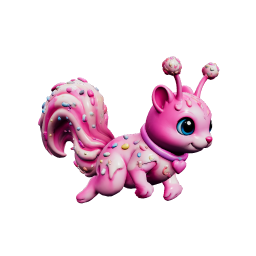
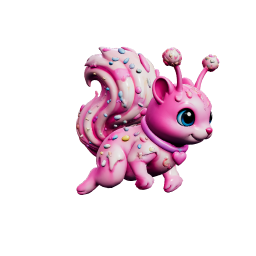
beta Pinky: a tap tail that reads - Robo's rhythm, a bigger swing
Owner: "the tail movement on tap is NOT playing enough". Measured at the
52 px game size the old tap changed the silhouette by at most 50%, against
Robo 80%, Volt 77%, Cat 86%: two small symmetric sweeps of a compact plume.

The tap is now keyed to Robo's bank: down past straight out and held, up
past rest so it leans over the back, down again, home (TAP_KEYS in
moves.js). Peak silhouette change 61%; the plume keeps its sculpted shape
and the root holds at both extremes.

Claude-Session: https://claude.ai/code/session_01AxarYXSPHDGFV5QY8gYCSr

Changed region(s): [[0.125, 0.1562, 0.875, 0.8125]]

diff --git a/tools/rig3d/moves.js b/tools/rig3d/moves.js
@@ -18,18 +18,28 @@ const TAU = Math.PI * 2;
 
 // the level pose every bank starts from
 export const LEVEL = { pitch: 0, spine: 0, head: 0, ears: 0, front: 6, paw: 0, hind: -6, hindLow: 0, tailOut: 0.25 };
-// how far the tap's sweep carries the tail (1 = straight out behind a level body), and how
-// far the dive does: past 1, so the plume lines up with the body as it tips nose down
-const TAP_OUT = 0.9, DIVE_OUT = 1.25;
+// how far the dive carries the tail (1 = straight out behind a level body): past 1, so the
+// plume lines up with the body as it tips nose down
+const DIVE_OUT = 1.25;
+// THE TAP'S TAIL, keyed to Robo's painted bank (owner, 26 Oct 2026: "the tail movement on
+// tap is NOT playing enough"): sweep down to straight out and HOLD there, swing back up past
+// rest so it leans forward over the back, sweep down again, settle. [u, tailOut] pairs,
+// eased between, so the same keys read the same at 12 frames or 16.
+const TAP_KEYS = [[0, LEVEL.tailOut], [0.12, 0.85], [0.22, 1.3], [0.42, 1.3], [0.52, 0.5],
+  [0.62, -0.35], [0.68, -0.35], [0.76, 0.9], [0.83, 1.15], [0.92, 0.6], [1, LEVEL.tailOut]];
+const keyed = (keys, u) => {
+  let i = 1; while (i < keys.length - 1 && u > keys[i][0]) i++;
+  const [u0, a] = keys[i - 1], [u1, b] = keys[i], x = Math.min(1, Math.max(0, (u - u0) / (u1 - u0)));
+  return a + (b - a) * x * x * (3 - 2 * x);
+};
 
 export const MOVES = {
-  // Robo's tail: from the upright plume it sweeps down to straight out behind, back up,
-  // and again - twice per loop - with a light whip running down it, while the body bobs
-  // once and the legs paddle with the bob.
+  // Robo's tail (TAP_KEYS): down to straight out and held, up past rest, down again, home,
+  // with a light whip running down it, while the body bobs once and the legs paddle.
   tap: {
     frames: 16, loop: true,
     pose(u) {
-      const c = TAU * u, s2 = (1 - Math.cos(2 * c)) / 2; // 0 -> 1 -> 0 -> 1 -> 0
+      const c = TAU * u;
       // each wave is measured from its own value at u = 0, so frame 1 is exactly LEVEL
       const w = (amp, ph, mul = 1) => amp * (Math.sin(mul * c + ph) - Math.sin(ph));
       return {
@@ -42,7 +52,7 @@ export const MOVES = {
         paw: w(-12, 1.0),
         hind: LEVEL.hind + w(-22, 0),
         hindLow: w(14, 0.8),
-        tailOut: LEVEL.tailOut + (TAP_OUT - LEVEL.tailOut) * s2,
+        tailOut: keyed(TAP_KEYS, u),
         tail: (f, k) => 2 * f * (Math.sin(2 * c - 0.6 - k * 0.42) - Math.sin(-0.6 - k * 0.42)),
       };
     },

diff --git a/docs/js/catalog.js b/docs/js/catalog.js
@@ -62,7 +62,7 @@ export const HYPER_RUN_ENABLED = true;
 // Stamped by export-sandbox.mjs at build time, so two approvals of the
 // same day are still tellable apart on the Profile footer. Unbuilt source
 // (labs, tests) shows no stamp rather than a stale one.
-export const BUILD_TIME = "2026-10-25 23:49 UTC";
+export const BUILD_TIME = "2026-10-26 02:26 UTC";
 // THE DEV STAMP ROLLS EVERY CHANGE (owner: "so i can verify it loaded").
 // A version that never moves cannot answer the only question it is read
 // for, which is the hour the owner just lost: new art loaded in a private

diff --git a/docs/js309/catalog.js b/docs/js309/catalog.js
@@ -62,7 +62,7 @@ export const HYPER_RUN_ENABLED = true;
 // Stamped by export-sandbox.mjs at build time, so two approvals of the
 // same day are still tellable apart on the Profile footer. Unbuilt source
 // (labs, tests) shows no stamp rather than a stale one.
-export const BUILD_TIME = "2026-10-25 23:49 UTC";
+export const BUILD_TIME = "2026-10-26 02:26 UTC";
 // THE DEV STAMP ROLLS EVERY CHANGE (owner: "so i can verify it loaded").
 // A version that never moves cannot answer the only question it is read
 // for, which is the hour the owner just lost: new art loaded in a private
